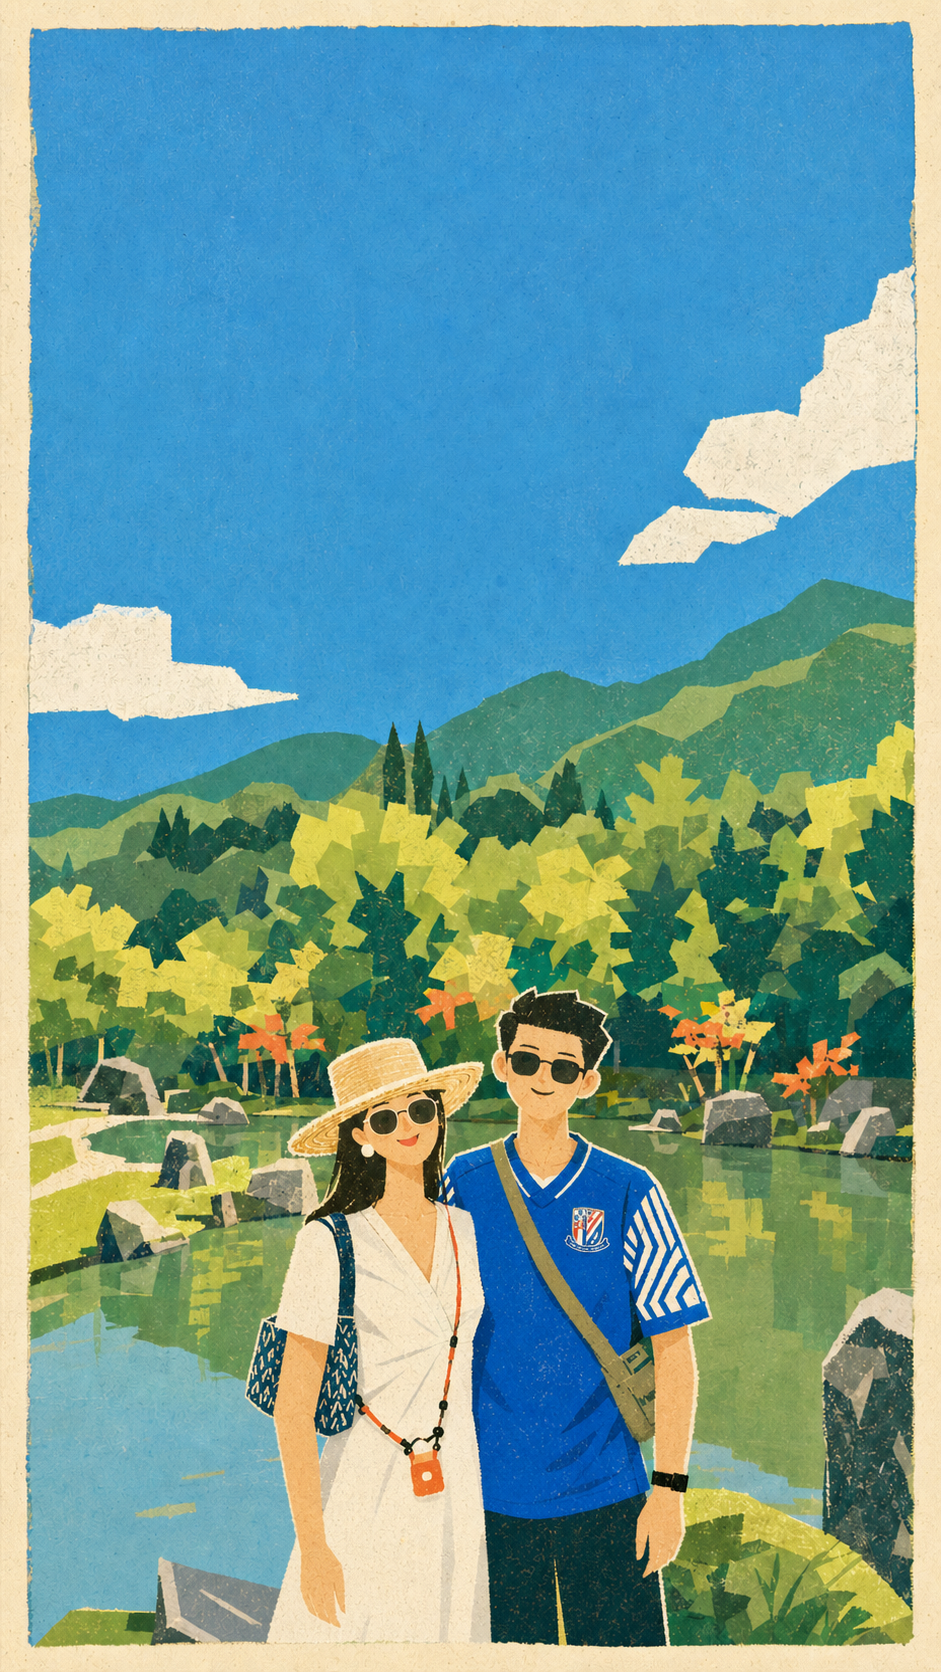
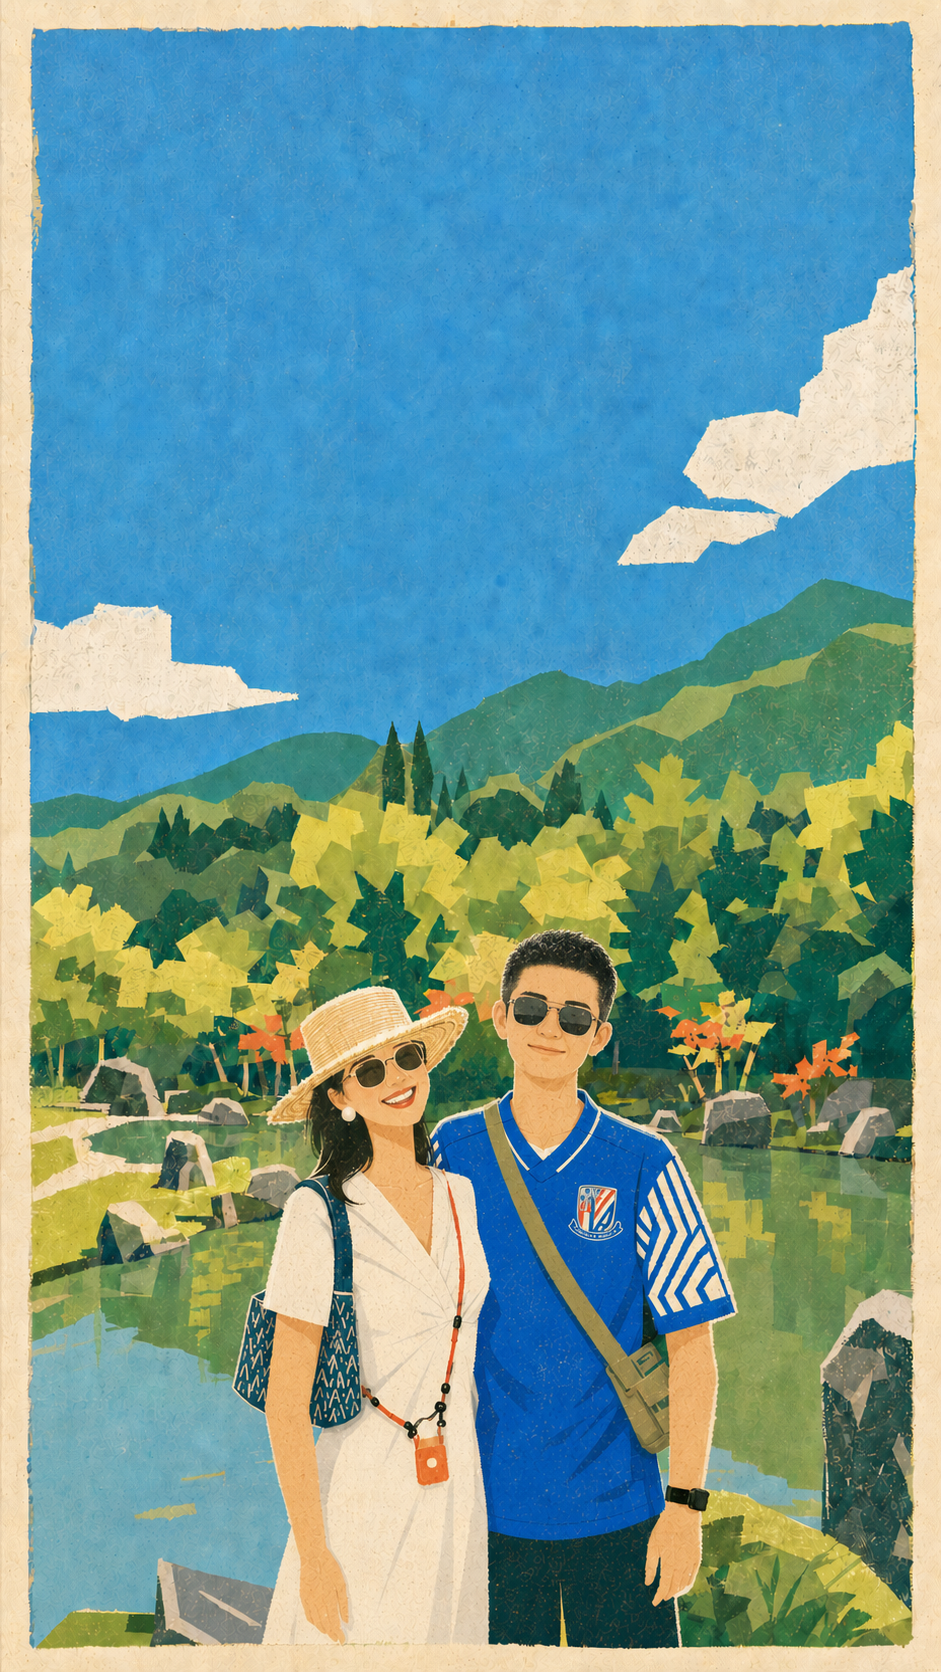
Adjust desktop hero composition

diff --git a/src/styles.css b/src/styles.css
@@ -199,8 +199,16 @@ h1 em, h2 em { color: var(--khaki); font-style: italic; font-weight: 500; }
 }
 
 @media (min-width: 960px) {
-  .hero, .hero-content { min-height: 820px; }
-  .hero-content { max-width: 1280px; margin: 0 auto; padding: 190px 64px 44px; }
+  .topbar { color: var(--espresso); }
+  .hero { min-height: 820px; background: var(--ivory); }
+  .hero-image { top: 0; right: 0; bottom: 0; left: auto; width: 55%; height: 100%; object-fit: cover; object-position: center 72%; background: var(--khaki-light); }
+  .hero-overlay { top: 0; right: 0; bottom: 0; left: 45%; background: rgba(20, 43, 35, .08); }
+  .hero-content { width: 45%; max-width: none; min-height: 820px; margin: 0; padding: 190px 48px 44px 64px; color: var(--espresso); background: var(--ivory); }
+  .hero-content h1 { color: var(--bamboo-deep); text-shadow: none; }
+  .hero-content .hero-kicker { color: var(--bamboo); opacity: .82; }
+  .hero-content .hero-en-title { color: var(--tomato); }
+  .hero-content .hero-meta { color: var(--espresso); }
+  .hero-content .meta-line { background: var(--espresso); }
   .hero-meta { font-size: 11px; }
   .intro-band { padding-left: max(64px, calc((100vw - 1152px) / 2)); padding-right: max(64px, calc((100vw - 1152px) / 2)); }
   .content-section, .memory-inner { padding-left: 64px; padding-right: 64px; }
@@ -217,7 +225,7 @@ h1 em, h2 em { color: var(--khaki); font-style: italic; font-weight: 500; }
 }
 
 @media (min-width: 1280px) {
-  .hero-content { padding-left: 0; padding-right: 0; }
+  .hero-content { padding-left: max(64px, calc((100vw - 1152px) / 2)); padding-right: 64px; }
   .content-section, .memory-inner { padding-left: 0; padding-right: 0; }
   .intro-band { padding-left: calc((100vw - 1152px) / 2); padding-right: calc((100vw - 1152px) / 2); }
 }
